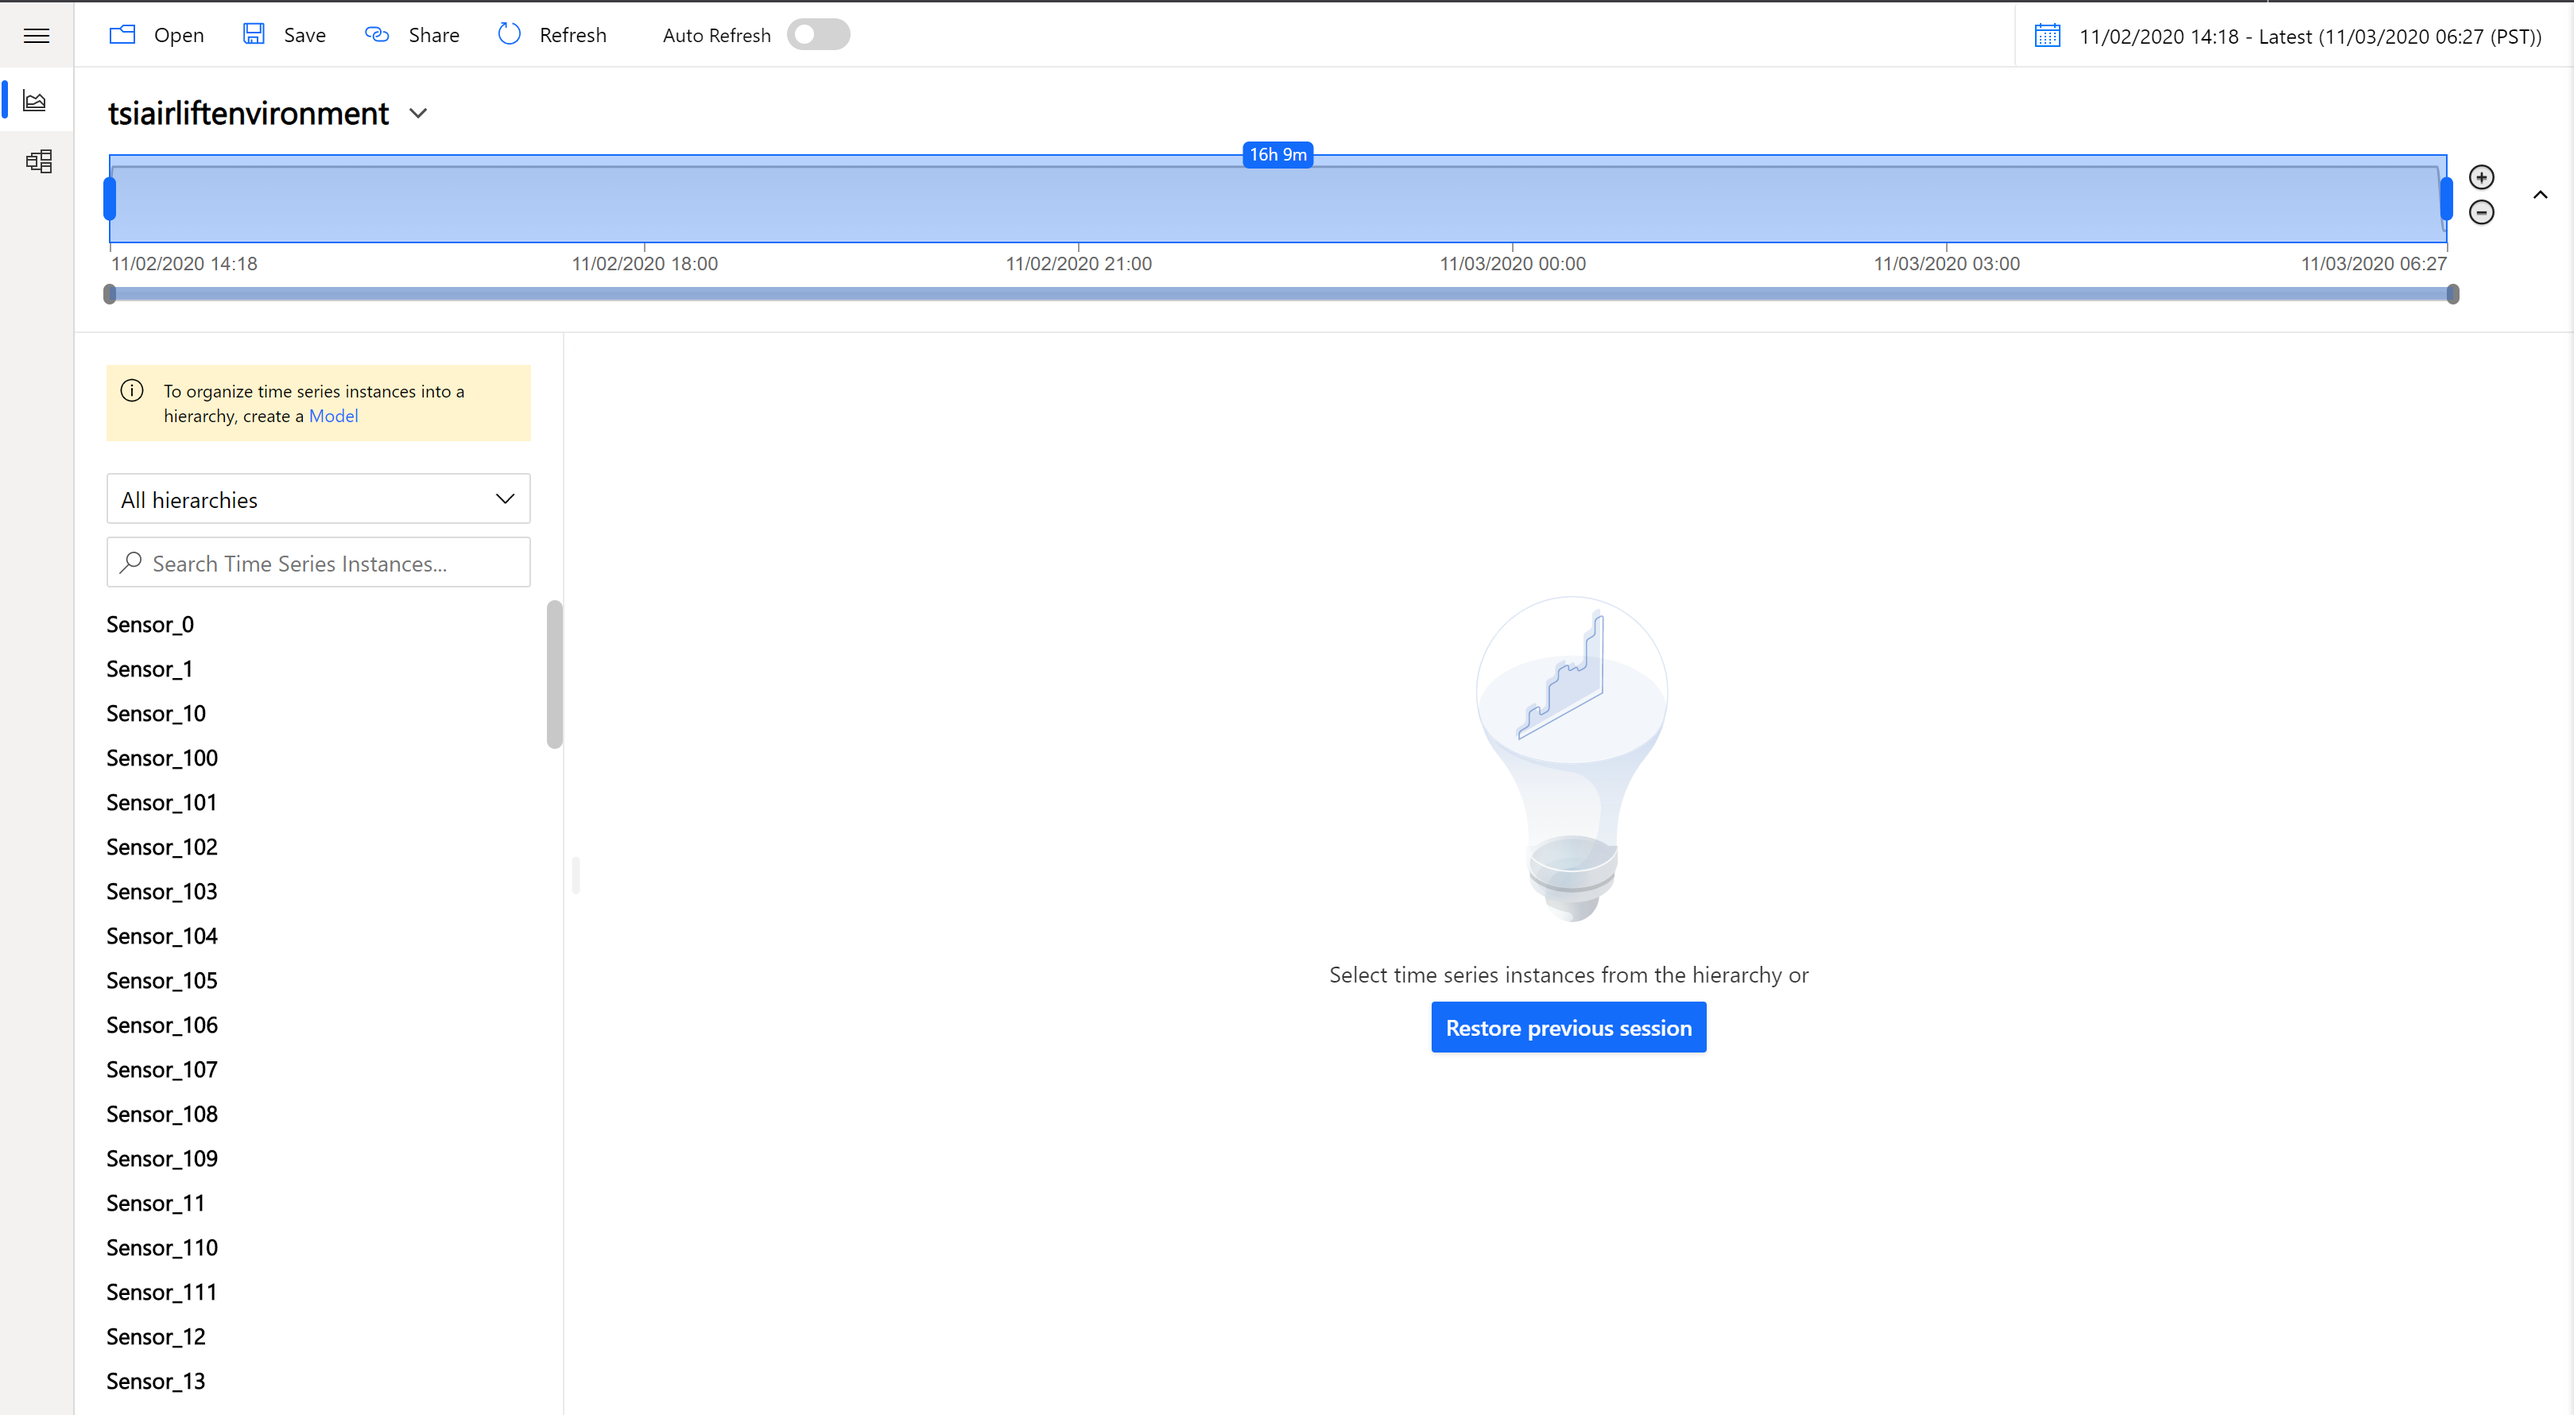
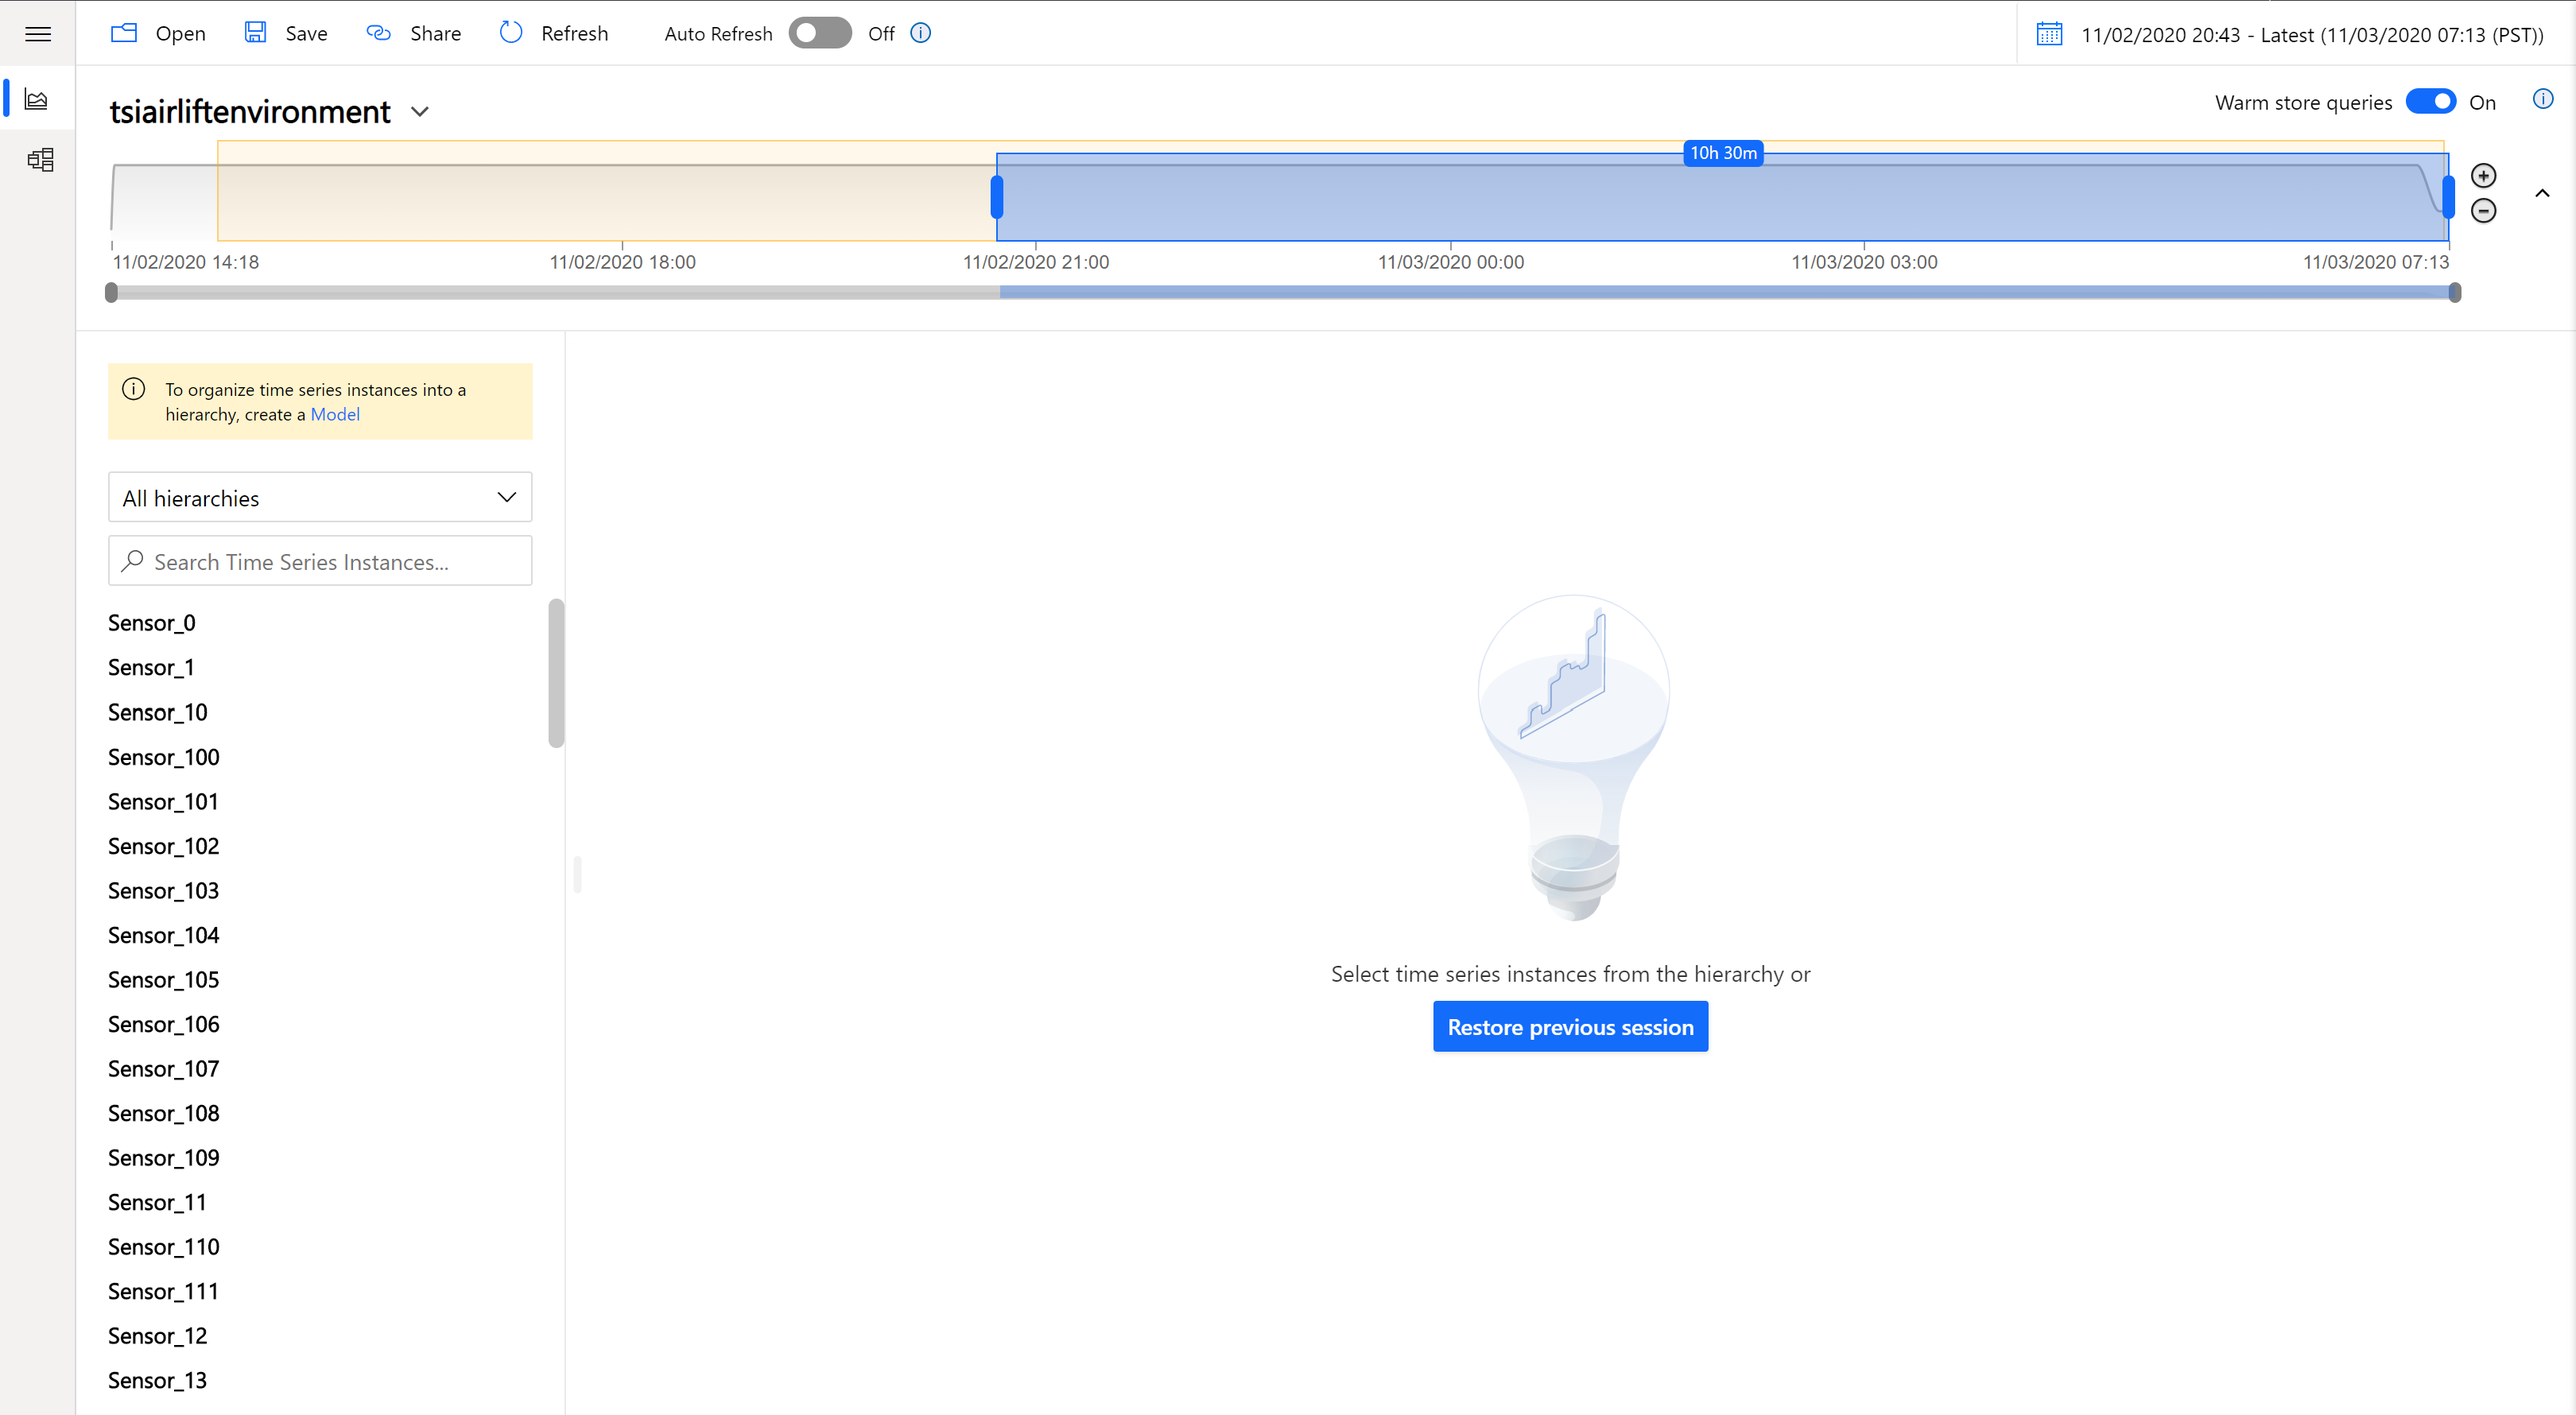
edit explorer overview

diff --git a/step-03-explorer-intro/README.md b/step-03-explorer-intro/README.md
@@ -1,16 +1,20 @@
-## Step 4: Azure Time Series Insights Explorer Overview
+## Step 3: Azure Time Series Insights Explorer Overview
 
-### Explorere Overview
+### Explorer Overview
 Welcome to the explorer! Some of the key features include:
 
-1. Selecting a time range: You can select a different time range by dragging the handles of the availability picker, or using the date-time selector in the top right corner. You can expand the bar to see the volume of data over time, or keep it collapsed for a slimmer look. Any time selection that is within the orange bar boundary will query your Time Series Insights environment’s warm store. Warm storage is configurable for up to 31 days retention, and is designed for frequent querying of recent data. There is no charge for these queries.
+1. Availability Panel: You can select a different time range by dragging the handles of the availability picker or using the date-time selector in the top right corner. You can expand the bar to see the volume of data over time, or keep it collapsed for a slimmer look. Any time selection that is within the orange area will query your Time Series Insights environment’s Warm Store. Selecting a time range outside of the orange region will query the environment's Cold Store. 
+\
+![01_Environment_Overview](../assets/step3_01_Environment_Overview.PNG)
 
-![01_Environment_Overview](../assets/01_Environment_Overview.PNG)
+2. Hierarchy Panel: On the left, you’ll see the Time Series Model (TSM) hierarchy. Time series that are not yet configured to a hierarchy will fall under the default of “Unassigned Time Series Instances". All your instances are unassigned at the moment, we will create hierarchies in the next step.
+\
+![02_Environment_Overview](../assets/step3_02_Environment_Overview.PNG)
 
-2. Hierarchy: On the left, you’ll see the Time Series Model (TSM) hierarchy. Time series that are not yet configured to a hierarchy will fall under the default of “Unassigned Time Series Instances.”
+3. Charting Panel: In the middle of the page is the charting pane where you can visualize events and perform analysis. Below the charting pane is the well which offers additional settings such as time shift and step interpolation. Try charting a time series by clicking on a sensor from the hierarchy panel and selecting a variable to visualize:
+\
+![03_Environment_Overview](../assets/step3_03_Environment_Overview.PNG)
 
-![02_Environment_Overview](../assets/02_Environment_Overview.PNG)
-
-3. Plotting: In the middle of the page is the charting pane where you can visualize events and perform analysis. Below the charting pane is the well which offers additional settings such as time shift and step interpolations.
-
-4. Continue to the [next step](../step-005-tsm-creation) to create a data model.
+4. Read more about the [TSI Explorer features](https://docs.microsoft.com/azure/time-series-insights/concepts-ux-panels).
+ 
+5. Continue to the [next step](../step-04-tsm-creation) to create a data model.
